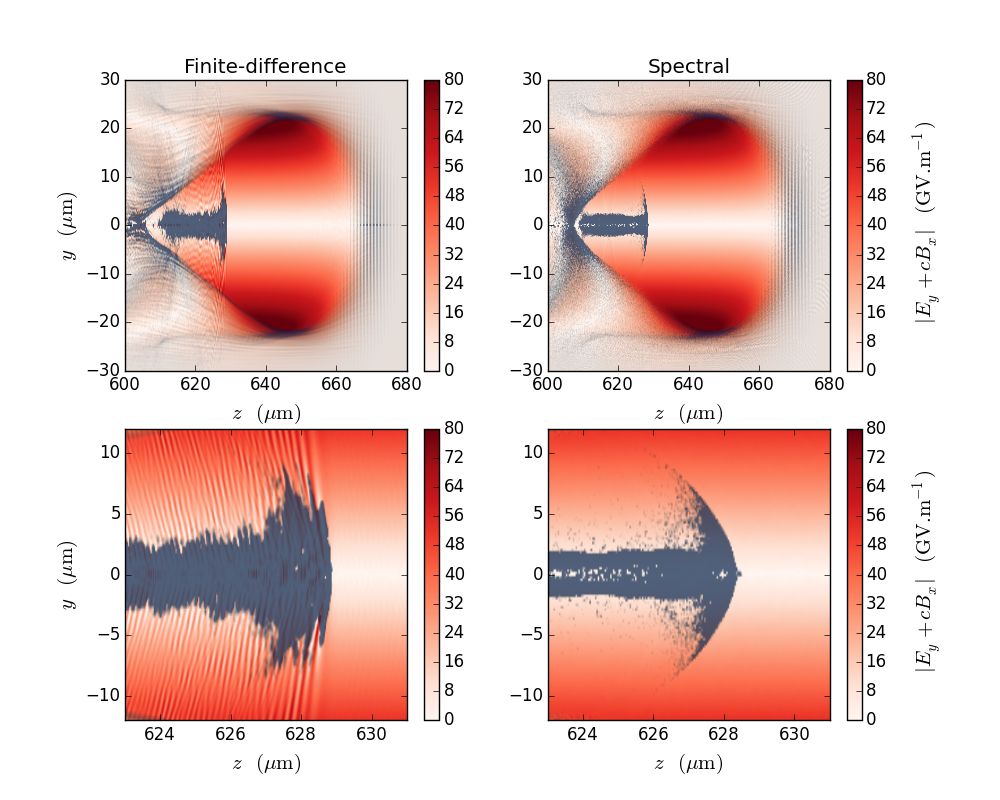
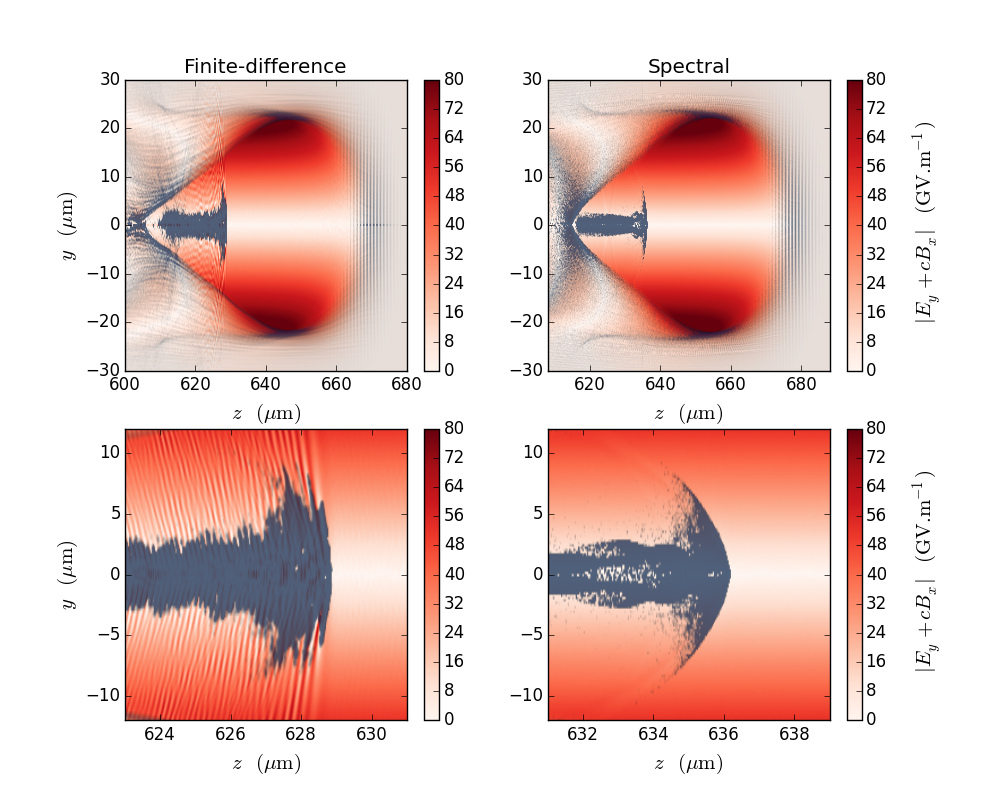
Updated the figures

diff --git a/docs/article/Spectral_circ.tex b/docs/article/Spectral_circ.tex
@@ -41,14 +41,16 @@
 
 \title{A spectral, quasi-cylindrical and dispersion-free \\ Particle-In-Cell algorithm}
 %\pagestyle{empty}
-\author[*]{R\'emi \textsc{Lehe}}
-\author[**]{Manuel \textsc{Kirchen}}
-\author[***]{Igor A. \textsc{Andriyash}}
-\author[*]{Jean-Luc \textsc{Vay}}
+\author[1]{R\'emi \textsc{Lehe}}
+\author[2]{Manuel \textsc{Kirchen}}
+\author[3]{Igor A. \textsc{Andriyash}}
+\author[4]{Brendan B. \textsc{Godfrey}}
+\author[1]{Jean-Luc \textsc{Vay}}
 
-\affil[*]{Lawrence Berkeley National Laboratory, Berkeley, California 94720, USA}
-\affil[**]{DESY, 22607 Hamburg, Germany}
-\affil[***]{Laboratoire d'Optique Appliqu\'ee, 91761 Palaiseau, France}
+\affil[1]{Lawrence Berkeley National Laboratory, Berkeley, California 94720, USA}
+\affil[2]{DESY, 22607 Hamburg, Germany}
+\affil[3]{LOA, 91761 Palaiseau, France}
+\affil[3]{University of Maryland, College Park, MD 20742, USA}
 
 \begin{document}
 
@@ -943,6 +945,8 @@ arise in a finite-difference code.
 \subsection{Absence of numerical Cherenkov radiation 
 for lab-frame simulations}
 
+\comment{Look at spectrum + mitigate claims}
+
 A first artifact which is avoided, in the case of lab-frame
 simulations, is numerical Cherenkov radiation. Numerical
 Cherenkov radiation is a consequence of numerical dispersion
@@ -1002,8 +1006,8 @@ the Lorentz force $\vec{F} = q\vec{E} + q\vec{v}\times\vec{B}$ felt by
 a relativistic electron having $\vec{v} = c\vec{e_z}$.) As can be seen
 in the top panels, the global aspect of the bubble and of the injected
 bunch is similar in both simulations. In particular, the injected
-charge was found to be almost the same (\comment{XXX pC} with the
-finite-difference algorithm and \comment{XXX pC} with the spectral
+charge was found to be almost the same (766 pC with the
+finite-difference algorithm and 750 pC with the spectral
 algorithm). However, when having a closer look at the bunch in the
 finite-difference algorithm (see the lower left panel in
 \cref{fig:Cherenkov}), it appears that the bunch emits a
@@ -1026,8 +1030,7 @@ the unphysical artifacts associated with numerical Cherenkov radiation.
   simulation (left) and of a spectral simulation (right), at a similar
   physical time. The superimposed blue shades represent the electron
   density. The lower panels show the region surrounding the
-  bunch in more details. \comment{Update figures + Put more
-    transparency on the bunch in the lower plots ?}}
+  bunch in more details.}
 \end{figure}
 
 For completeness, we remark that a similar suppression of the
@@ -1048,26 +1051,59 @@ finite-difference algorithms is whenever a relativistic electron bunch
 overlaps with a copropagating laser. This situation occurs for
 instance in laser-wakefield acceleration, when the accelerated electron bunch
 progressively catches up with the laser pulse and may eventually
-overlap with it \citep{Cipiccia,Nemeth}. It is also the typical
+overlap with it (e.g. \citep{CipicciaNatPhys2011,NemethPRL2008}). It is also the typical
 configuration for simulations of free-electron lasers, where the
 overlap of the electron bunch and the copropagating laser radiation, inside an
 undulator, leads to a growing instability.
 
-However, in the appendix of \citep{LehePRSTAB2014}, it was shown that
-finite-difference PIC codes tend 
+Despite the practical importance of this physical configuration, it
+was recently shown that standard finite-difference PIC codes tend 
+to largely overestimate the force felt by the electrons inside a
+copropagating laser (see the appendix of \citep{LehePRSTAB2014}). This
+overestimation was shown to be mainly due to the staggering in time 
+of the $\vec{E}$ and $\vec{B}$ fields in a standard finite-difference
+code. This staggering indeed results in an improper numerical compensation of 
+the two terms of the Lorentz force $\vec{F} = q\vec{E} +
+q\vec{v}\times\vec{B}$. However, in our spectral quasi-cylindrical
+algorithm, the fields $\vec{E}$ and $\vec{B}$ are not staggered in
+time, and thus the force on a co-propagating electron bunch should be
+correct.
+
+In order to confirm this prediction, we ran a test simulation in which a single
+relativistic macroparticle copropagates with a laser pulse. The initial configuration of
+the simulation is represented in \cref{fig:Schematic_laser}. The laser
+pulse is characterized by a waist $w_0 = 25\;\mathrm{\mu m}$,
+a length $L=7\;\mathrm{\mu m}$, an amplitude $a_0 = 0.2$ and a
+wavelength $\lambda = 0.8\;\mathrm{\mu m}$, while the macroparticle
+represents a relativistic electron having an initial Lorentz factor
+$\gamma_e = 25$. The simulation was run, again, with both our spectral
+quasi-cylindrical algorithm and the finite-difference
+quasi-cylindrical algorithm of \textsc{Warp}. In order to study
+numerical convergence, the simulations were run with a varying
+longitudinal resolution $\Delta z$, but with fixed cell aspect ratio
+$\Delta r = 10\Delta z$. The timestep was again $c\Delta t=
+1/\sqrt{1/\Delta z^2 + 2/\Delta r^2}$ for the finite-difference
+simulation and $c\Delta t = \Delta z$ for the spectral
+simulation. Finally, the simulations were run in a moving window with a
+longitudinal and transverse size of 40 and 60 $\mathrm{\mu m}$ respectively.
+
+\begin{figure}[!h]
+\centering
+\includegraphics[width=0.5\textwidth]{figures/Schematic_laser.pdf}
+\caption{\label{fig:Schematic_laser}Representation of the situation
+  which is simulated in \cref{sec:accurate-laser}. The red and blue
+  colormap corresponds to the electric field of the laser pulse, while
+  the black dot corresponds to the electron considered. 
+The laser propagates to the right, and is polarized along $x$.}
+\end{figure}
+
+To evaluate 
 
 Spurious force. To evaluate it, we look at the conservation (say order
 of magnitude of error)
 
 
 
-\begin{figure}[!h]
-\centering
-\includegraphics[width=0.5\textwidth]{figures/Schematic_laser.pdf}
-\caption{\label{fig:Schematic_laser}Representation of the situation
-  which is simulated in \cref{sec:accurate-laser}. The laser
-  propagates to the right, and is polarized along $x$.}
-\end{figure}
 
 \begin{figure}[!h]
 \centering
@@ -1075,11 +1111,11 @@ of magnitude of error)
 \includegraphics[width=0.45\textwidth]{figures/Laser_spectral.pdf}
 \caption{\label{fig:Laser}Evolution of the transverse normalized
   momentum of a macroparticle $p_x/m_e c$, as it copropagates with a
-  laser pulse having $a_0=0.2$ (see \cref{fig:Schematic_laser} for a
+  laser pulse (see \cref{fig:Schematic_laser} for a
   schematic representation of the situation simulated). The left and
   right plots correspond to the finite-difference and spectral
   algorithm respectively, while the different curves correspond to
-  different resolutions. \comment{Update figure}}
+  different resolutions in the simulation.}
 \end{figure}
 
 
@@ -1091,8 +1127,7 @@ advantages). Here on top of it, we have it in Circ.
 
 \paragraph{Acknowledgements}
 
-We thank Brendan Godfrey for very valuable comments and suggestions. We
-also acknowledge Axel Huebl for insightful discussions on the GPU implementation.
+We acknowledge Axel Huebl for insightful discussions on the GPU implementation.
 
 This work was supported by the Director, Office of Science, Office of High Energy Physics, U.S. Dept. of Energy under Contract No. DE-AC02-05CH11231, including from the Laboratory Directed Research and Development (LDRD) funding from Berkeley Lab.
 
